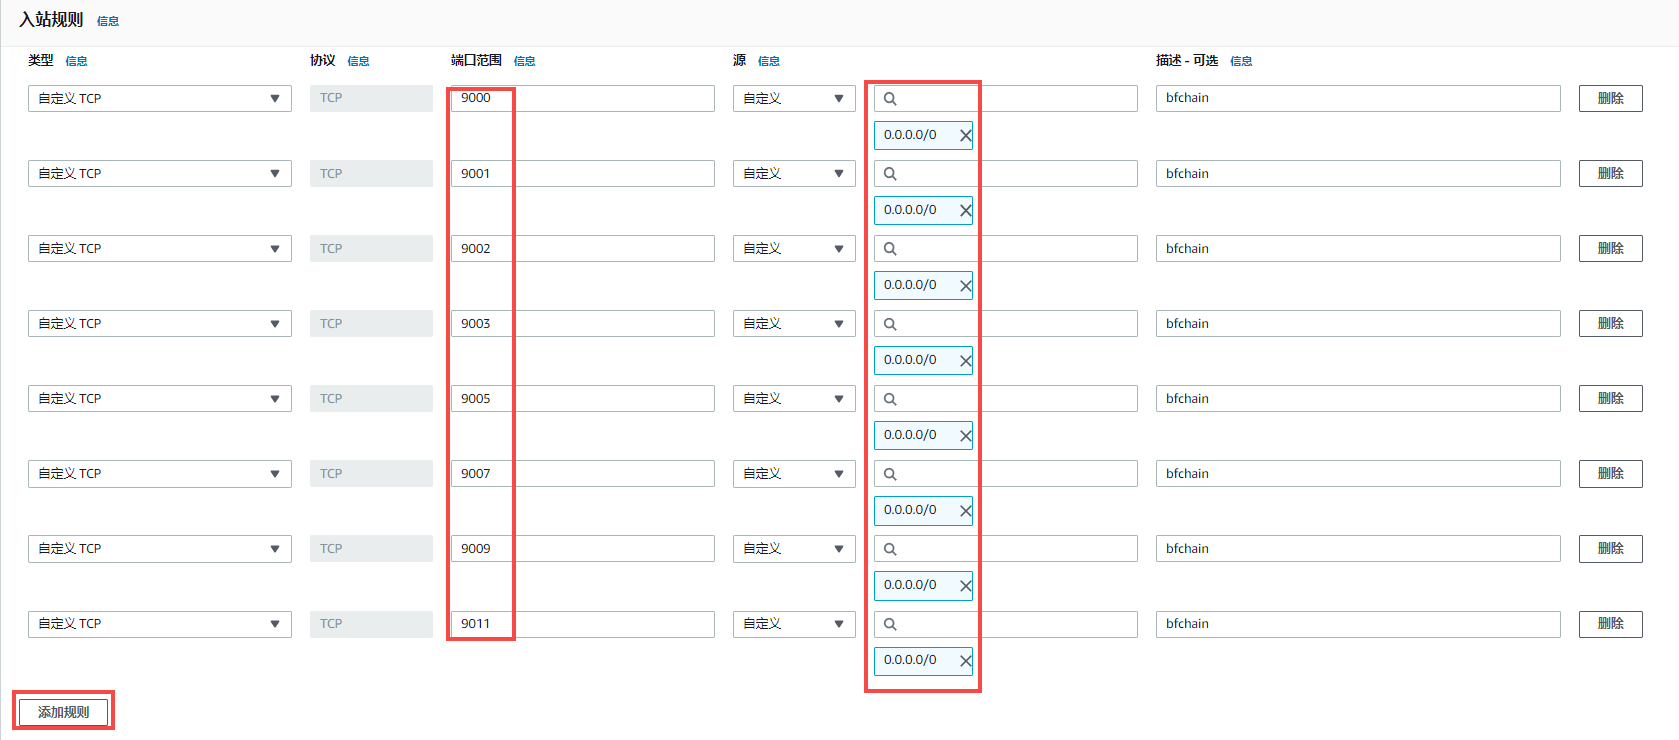
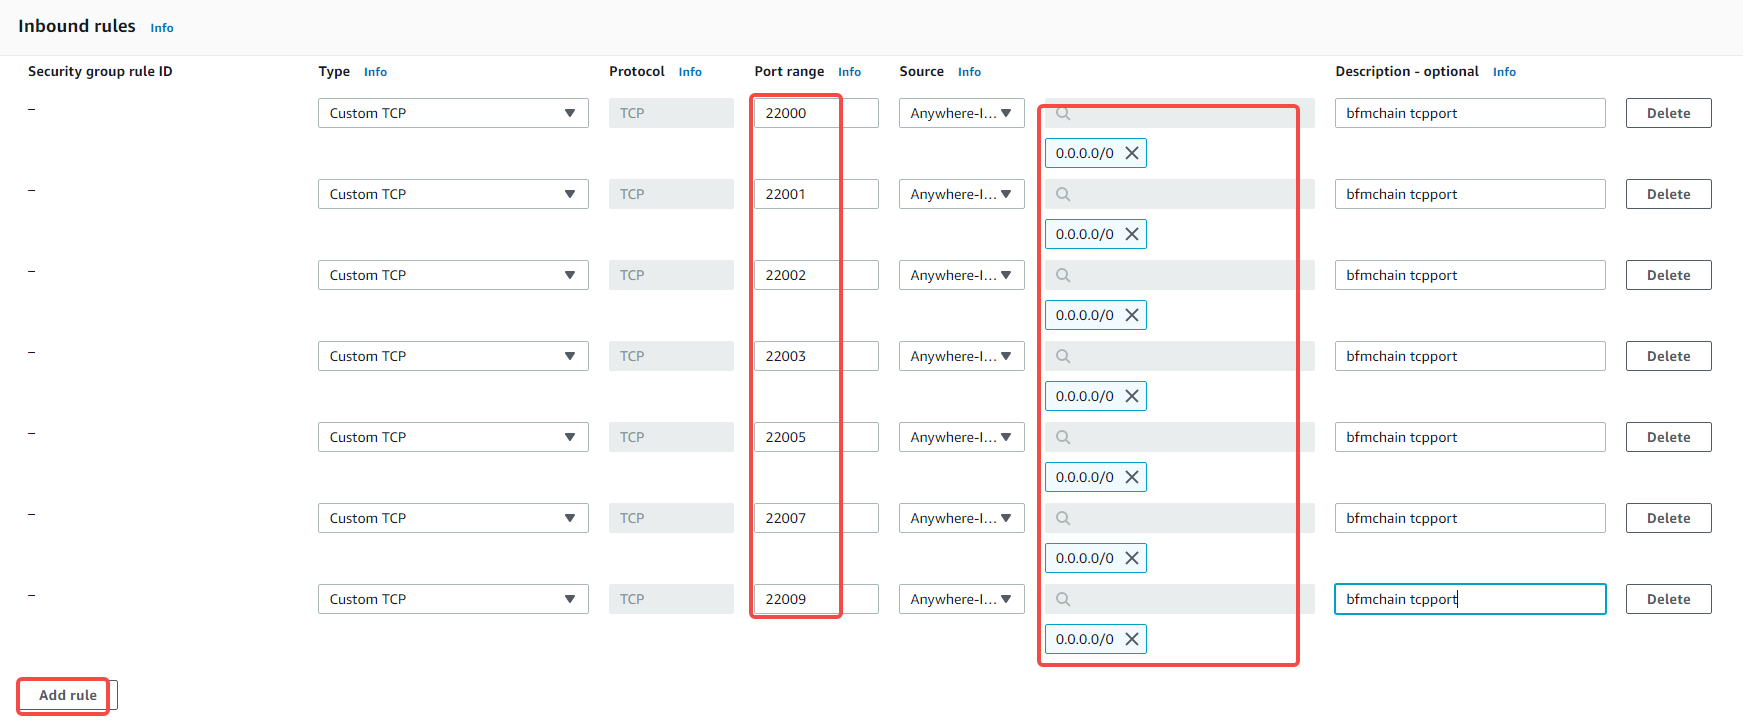
update Linux tutorial

diff --git a/en/Tutorial/PC_full_node_tutorial/Linux/deploy.md b/en/Tutorial/PC_full_node_tutorial/Linux/deploy.md
@@ -261,14 +261,13 @@ In order to ensure that you can run the BFMeta PC node program-BCF smoothly, we 
 
      1. Click on the instance details that need to be configured "Security"-"Security Group":
         ![AWS1](./images/AWS1.png)
-        ![AWS2](./images/AWS2.png)
 
      2. Then click "Edit Security Group Rules" in the pop-up security group:
-        ![AWS2](./images/AWS3.png)
+        ![AWS2](./images/AWS2.png)
 
      3. Add inbound rules:
 
-        ![AWS3](./images/AWS4.png)
+        ![AWS3](./images/AWS3.png)
 
      
 
